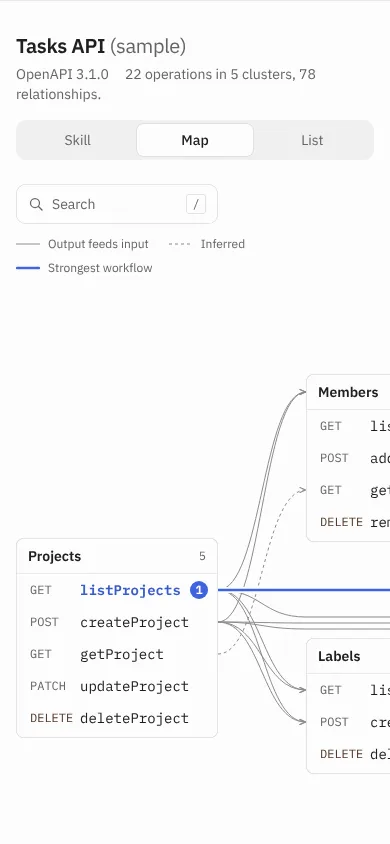
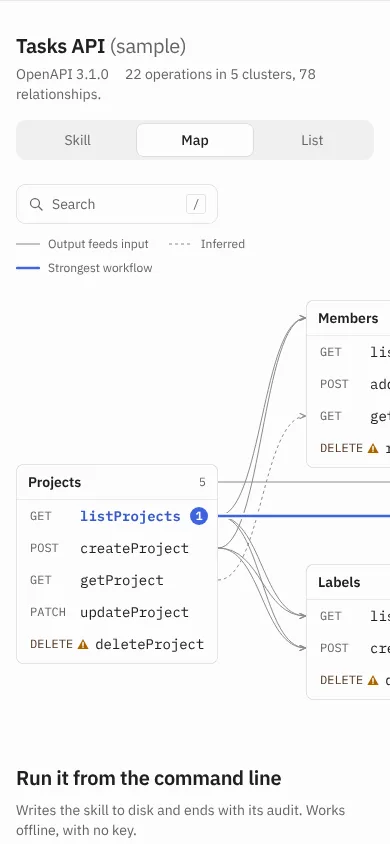
Redesign R4 verify 1: decisions D47, D50 revised, D53 and D54; screenshots
D34, D41, D45 and D48 note the warning mark and gray-5 fade.

Claude-Session: https://claude.ai/code/session_018f8FAnzov9ZBQEqsiVnGBS

diff --git a/docs/DECISIONS.md b/docs/DECISIONS.md
@@ -58,22 +58,24 @@ Record every non-trivial decision here: date, decision, alternatives considered,
 | 2026-10-24 | D31 The Dark theme toggle, its `spec2skill:theme` storage, the `tool-atlas:theme` migration and `[data-theme]` pinning are removed; the theme follows `prefers-color-scheme` through `color-scheme: light dark` and `light-dark()`. `src/design/theme.ts` and its test are deleted (nothing left needs JS); `tokens.test.ts` and the phase 5, 8, 13 and redesign-r1 flows check that the theme follows the system, live and on load, and that a stored choice is ignored. Stale keys in a returning visitor's storage are left alone (never read). | Keep `followSystem` for a JS listener; clear the old keys on load. | DESIGN.md section 2 (Sean, 2026-10-24); CSS alone follows the system live, and unread keys cost nothing. |
 | 2026-10-24 | D32 Type: IBM Plex Sans and IBM Plex Mono 400/500/600, Latin subset, self-hosted from `@fontsource/ibm-plex-sans` and `@fontsource/ibm-plex-mono` 5.3.0 with hand-written `@font-face` rules (woff2 only); Bricolage removed. Existing views moved to the nearest of 12/14/20 (13 px inputs went to 14, "controls are 14"); `font-feature-settings: "tnum"` on the root; weights above 600 become 600. | Fontsource's CSS imports (they also list woff fallbacks); the variable Plex fonts. | DESIGN.md section 2; six static faces (about 116 KB raw, 14-24 KB each) fit the budget, see D36. |
 | 2026-10-24 | D33 Lines are drawn as 0.5 px box-shadows (`0 0 0 var(--line)` rings, `inset 0 ±var(--line) 0` one-side rules), never CSS borders: Chrome computes a 0.5 px border as 1 px. Old dashed and double borders (disabled buttons, stale skill, invalid field, error panel) became 0.5 px rings plus the words or glyphs they already had; the selected file and open list row lost their 3-4 px ink stripe (rule 10) and keep a gray-3 fill and weight 600. Map strokes are SVG and keep their encoding (0.5 px non-scaling for cards, nodes and the grid). Focus is a 2 px gray-12 outline without the marker halo. | 0.5 px CSS borders (render 1 px at DPR 1); `outline` rings. | DESIGN.md rule 6 measurable in the browser check (`scripts/browser/redesign-checks.mjs`). |
-| 2026-10-24 | D34 Colour roles for R1 (map and views keep their layout until R4/R5): ink to gray-12, graphite to gray-11, rule to gray-6, frames to gray-7, fields to gray-8, paper to gray-1, vellum to gray-2, meridian fills to indigo-9 (Download .zip) and meridian text to indigo-11 (links, audit pass, current loading step). Method hues collapse to gray-11 text; destructive method text and the `!` glyph use a `--destructive` role: amber-11 in dark but **amber-12 in light**, because amber-11 on gray-1 is 4.49:1, just under AA for text (contrast.test.ts records it). The destructive hatch bar is a graphic (3:1), so it stays amber-11 in both themes and keeps the amber cue in light. All map edges are gray-9 at full opacity (3.2:1 on gray-1) and keep their line style, marker and label; edge labels and path parameters are gray-11 (indigo stays the one accent); cluster washes are gone. | amber-11 everywhere as drawn in the target (fails AA by 0.006); indigo edges as a literal meridian mapping. | WCAG AA for text is binding; one accent (DESIGN.md section 2). |
+| 2026-10-24 | D34 Colour roles for R1 (map and views keep their layout until R4/R5): ink to gray-12, graphite to gray-11, rule to gray-6, frames to gray-7, fields to gray-8, paper to gray-1, vellum to gray-2, meridian fills to indigo-9 (Download .zip) and meridian text to indigo-11 (links, audit pass, current loading step). Method hues collapse to gray-11 text; destructive method text and the `!` glyph use a `--destructive` role: amber-11 in dark but **amber-12 in light**, because amber-11 on gray-1 is 4.49:1, just under AA for text (contrast.test.ts records it). The destructive hatch bar is a graphic (3:1), so it stays amber-11 in both themes and keeps the amber cue in light. (R4 verify round 1: the route map has no hatch, so the amber cue in light is now D53's amber-11 warning mark on every destructive row.) All map edges are gray-9 at full opacity (3.2:1 on gray-1) and keep their line style, marker and label; edge labels and path parameters are gray-11 (indigo stays the one accent); cluster washes are gone. | amber-11 everywhere as drawn in the target (fails AA by 0.006); indigo edges as a literal meridian mapping. | WCAG AA for text is binding; one accent (DESIGN.md section 2). |
 | 2026-10-24 | D35 The DESIGN.md section 8 checks 1-4 and 7 live in `scripts/browser/redesign-checks.mjs` (`designChecks(page, { theme, checks, sizes })`, colours read from tokens.css), unit-tested in `redesign-checks.test.mjs`; `scripts/browser/flows/redesign-r1.mjs` runs them on the first view (1440 and 390, light and dark), the list view, a keyboard-focused map node and the detail panel (1440, light and dark), and reduced motion. `src/design/copy.test.ts` scans the app source and index.html for the middle dot; `src/skillgen` is exempt because its dots are in the generated skill's Markdown (product output, unchanged in R1). `docs/redesign/target/` is excluded from oxlint (reference generator, not product code). | A Python script; scanning generated files too. | One reusable helper for R2-R7; generated skill content changes belong to a skill-generator change with its snapshots and gallery. |
 | 2026-10-24 | D36 Size budget unchanged: with six Plex faces the initial total is 244.6 / 260 KB gzip (fonts counted raw, each 14-24 KB under the 45 KB per-font cap); initial JS 124.7 / 170 KB. | Raise `initialTotalGzipKB`; subset glyphs further. | It passes; about 15 KB of headroom remains for R2-R7, which `check-size` will flag if used up. |
 | 2026-10-24 | D37 Redesign R2: no source-kind selector and no More options. The web app always loads in Auto mode: a URL is fetched as a spec and, when it is not one, tried as an MCP server. `notSpec` (shared with the CLI's Auto mode) now also covers an HTML page and a GET answered 400 or 404 (MCP endpoints that only take POST often answer GET that way), besides not-a-spec, unsupported and 405/406; if the MCP try fails too, the spec's own error is shown. The error panel offers exactly its two recovery actions, "Paste spec text instead" and "Try a sample"; "Load it as an MCP server" is gone. Round 1 of review widened it: a GET answered 5xx is also tried as MCP once; when the MCP try fails for a reason only MCP has (needs-auth, legacy-transport) that error is shown instead of the spec's, but only when the GET already looked like an MCP endpoint (a JSON-RPC answer or a proxied 405/406), because the MCP client reports any POST 404/405 as the older transport and any 401/403 as credentials (a mistyped URL, a docs page or a 5xx keeps the spec error); the CLI's Auto mode applies the same rule to its MCP client's errors (`fallbackError` in `src/source/fetchSource.ts`, used by both); a body served as text/html that parses as a spec or a tools/list is accepted (a body that starts like HTML is still a page). Paths `/mcp` and `/sse` still go straight to MCP. `loadSource`'s `mode` stays for the CLI (`--source`). | Keep the selector behind a disclosure; keep "Load it as an MCP server" in the error panel. | DESIGN.md 4.2 and rule 9 (minimise decisions): the retry the selector offered now happens by itself, at the cost of one extra proxy call for a docs page, a 404 or a 5xx. |
 | 2026-10-24 | D38 Spacing tokens are named by value (`--space-16` is 16 px) and extended for the grid: 2, 4, 8, 12, 14, 16, 20, 24, 32, 40, 48, 64, 88, 96, 104 (the old `--space-1..6` = 4/8/16/24/40/64 were renamed in place in app.css); `scripts/check-spacing.mjs` still rejects raw px/rem in spacing properties. Radii gain `--radius-row` 6, `--radius-box` 10 and `--radius-frame` 16 (sm 4, md 8 stay). The source field's text padding is derived from its height (`calc((var(--field-h) - var(--leading-14)) / 2)`) rather than a 10 px token. | Keep ordinal names and slot the new values between them; allow-list raw values. | Ordinal names cannot take 12 between 8 and 16; value names read at a glance and match gen.mjs. |
 | 2026-10-24 | D39 Grid: `.wrap` is max 1136 px with 32 px padding (a 1072 px column); every grid uses `minmax(0, 1fr)` columns and a gap of `min(88px, 7.75vw)`, which is exactly 492/492 and 4 x 202 at 1136 px and wider and fluid below; under 640 px one column with a 16 px gutter. The result frame hangs 32 px outside the column; below 1200 px `.wrap` becomes max 1168 with 48 px side padding (the column stays 1072 wide until the window is narrower than 1168, so nothing jumps at 1200), and the frame always keeps at least 16 px from the window while its contents stay on the column's left edge. The hero stacks to one column below 960 px so the field keeps its placeholder on one line, and the Samples control wraps under its label when the two no longer fit one line (columns `minmax(max-content, 1fr)`). On phones the result is not a card but a 0.5 px rule above it spanning the full window (DESIGN.md 6). The skill pane and the map now size themselves from their top inside the frame (`src/shell/frame.ts`), so they fill the window once the frame is scrolled to; the hero is the first view. | Fixed 492/202 tracks with a separate fluid media query; keep sizing from the page top. | One rule for every width; the map and pane would otherwise shrink to their minimum under the hero. |
 | 2026-10-24 | D40 Page shell details: the samples are native radio buttons in a `role="radiogroup"` labelled "Samples" (arrow keys move and select, one Tab stop, nothing checked while a user source is shown; clicking the selected one names it in the URL as the chips did); the chip row, its "More samples" hint and `src/shell/reveal.ts` are removed (the three samples fit one line at 390, checked in phase-13 and redesign-r2). On phones the header links sit behind a Menu button (as V2Phone draws). Header and footer in-page links (#how, #cli) scroll and move focus without changing the URL, whose hash is `#op=`. Generate (indigo-9, the primary button of the hero) loads the field's source, or with an empty field writes the current skill again (the old header Generate skill; ignored while a load runs). The phone menu closes on Escape (focus back on Menu) and on a tap outside the header. The redesign flows write their committed screenshots only with `--capture <flow>` (scripts/check-browser.mjs); otherwise into the run's phase folder, so a later run never overwrites an earlier phase's images. The footer's Keyboard shortcuts opens the existing dialog (state moved from the workspace to App). The workspace's API title is now an h2 under the hero h1. | ARIA tabs with roving tabindex; leave the header links visible on phones; anchors that set the hash. | Radios give the "none selected" state and arrow keys natively; the hash belongs to URL state (F13). |
-| 2026-10-24 | D41 The route map's method column (DESIGN.md 5) shows, for MCP tools, `read` (readOnlyHint; without hints, a list or read tool by its name) or `write` (everything else). HTTP operations keep their method in capitals. A destructiveHint keeps `destructive: true`, so the row's method text is `amber-11` like DELETE; because amber alone would be colour only, R4 adds a non-colour cue on destructive tool rows: a small marker glyph, and "destructive" in the row's accessible name. The layout data carries it per row (`method`, `destructive`; `methodOf` in `src/layout/route.ts`), so the renderer only prints it. (Revised in R3 verify round 1: the first version wrote `delete` for destructive tools, which misstates write_file, edit_file and move_file.) | "delete" for destructive tools; "tool" on every MCP row; "destr.". | "tool" repeats on every row and says nothing (rule 2); "delete" is wrong for tools that overwrite; an abbreviation is a coined word (rule 3). read/write says what the call does and fits the 44 px column. |
+| 2026-10-24 | D41 The route map's method column (DESIGN.md 5) shows, for MCP tools, `read` (readOnlyHint; without hints, a list or read tool by its name) or `write` (everything else). HTTP operations keep their method in capitals. A destructiveHint keeps `destructive: true`, so the row's method text is `amber-11` like DELETE; because amber alone would be colour only, R4 adds a non-colour cue on destructive rows: a 12 px amber-11 warning mark after the method word (D53, replacing the first version's `!` glyph glued to `write`), and "destructive" in the row's accessible name. The layout data carries it per row (`method`, `destructive`; `methodOf` in `src/layout/route.ts`), so the renderer only prints it. (Revised in R3 verify round 1: the first version wrote `delete` for destructive tools, which misstates write_file, edit_file and move_file.) | "delete" for destructive tools; "tool" on every MCP row; "destr.". | "tool" repeats on every row and says nothing (rule 2); "delete" is wrong for tools that overwrite; an abbreviation is a coined word (rule 3). read/write says what the call does and fits the 44 px column. |
 | 2026-10-24 | D42 Route map columns: cycles in the cluster feed graph are broken with the greedy feedback-arc order of Eades, Lin and Smyth on distinct cluster pairs (sinks to the end, sources to the front, else the largest out minus in; ties in model order), after dropping any pair that runs back against the strongest workflow, whose clusters then take their slots in workflow order; columns are longest-path depths over the edges that run forward in that order (`src/layout/route-columns.ts`). | Depth-first search in model order dropping back edges; drop the weaker direction of each two-way pair by edge count. | DFS from the first cluster in model order (Comments) made Tasks feed Members back and broke the target; weighting by edge count put Members after Tasks. The greedy order gives Projects, Members and Labels, Tasks, Comments for the Tasks API, and the workflow always runs left to right. |
 | 2026-10-24 | D43 Resources with no feeds to or from any other resource (Petstore's User) are not on the dependency graph: they go to the currently shortest of the first four columns (or of all columns when there are more), biggest first, instead of all piling up in column 0. | Strict longest-path depth (every unlinked resource in column 0). | A spec without cross-resource feeds would otherwise be one tall column with three empty ones beside it; the grid's columns are there to be used. |
 | 2026-10-24 | D44 Route map layout details: the main line sits on each main card's line row (the stop where the line leaves the first card or enters a later one), so tops are equal when those rows are (Tasks API) and the line stays straight when they are not (Filesystem MCP). Other cards of a column go biggest first (ties in model order), alternating: above first in a column the line only crosses, below first in a column with a main card; a column off the line puts its biggest card's first row on the line's y and stacks the rest below and above; without a workflow, top down. Clearance 32 px between cards and from the main-line row band (row centre +-16), so Members/Labels sit 48 px from the line. A collapsed card shows 8 rows (workflow stops always among them, CRUD order kept) and an "N more" row (also when N is 1); links to hidden operations end on that row; `expanded` reopens cards in place and the "N more" row stays as the toggle. Links take the direct curve between their ends when it clears every card (8 px) in the columns between; otherwise they curve only inside the 88 px gaps (horizontal tangents) and cross each column through the free corridor nearest the straight line, 8 px clear of its cards, each on its own track: links sharing a corridor sit 6 px apart, ordered by source then target y (an open corridor above or below every card takes 8 tracks, then links overflow into the other open one; when every corridor is full the nearest open one takes the rest, still 6 px apart), so no two share a straight run. In every column the workflow line passes through, its band (row +-16 plus the 3 px halo) blocks links like a card: a link passing there stays on one side, the side of its far end when it leaves a main card (it crosses the line in the gap it leaves by), else the side of its start, and never takes the direct curve there. A bundle holding the workflow's own step is not drawn at rest (it would run on the line; its edges show on hover). The workflow ends before a step into a resource that is not further right (no two main cards share a column), and a chain of one stop is no workflow; same-card links loop out of the left edge, same-column links out of the right edge, backward links run left edge to right edge; so no link crosses a card (tested on every rest and hover link). `bounds` covers what is drawn at rest outside the cards (the workflow loop reaches 24 px left of column 0); `hoverBounds` adds what hover links can reach: 36 px past the first and last column (loops) and above and below the cards as deep as the operation with the most links could fill an open corridor (`openReach`, at least 50 px). | Card tops equal for every main card; cap at 9 rows to avoid "1 more"; one long Bézier per link; the nearest free y for every link (links stacked on one y read as one line). | The line is what must be straight (target); the cap is the spec's 8; a single Bézier across a column crosses its cards. |
-| 2026-10-24 | D45 Redesign R4 hover and focus: a hot row (hovered, keyboard-focused or pinned) draws its **feed** links only, each as its own 1.25 px gray-12 curve with an arrowhead (`hoverLinks` over the feeds edges); a bundle it stands behind fades with the other rest links to gray-6 without arrowheads, unrelated rows fade (D47), and the workflow line, halo and stop discs rest (drawn gray-6 like any link) until nothing is hot, as `V2Hover` draws it. Sub-path and shared-schema relations are not drawn on hover: the operation card lists them ("Shares schema", "Sub-paths", "Sub-path of"), the List view keeps every relationship as text, and E still cycles every relationship of the focused row (announced, the far row outlined dashed 2 px gray-12). A pointer leaving a row has 150 ms to reach its card before the preview goes. | Draw sub-path and shared-schema links on hover too (DESIGN.md 5's table lists them). | V2Hover draws feeds only; a fourth line style would need a legend entry the tools row does not have, and the card already says the same thing in words. |
+| 2026-10-24 | D45 Redesign R4 hover and focus: a hot row (hovered, keyboard-focused or pinned) draws its **feed** links only, each as its own 1.25 px gray-12 curve with an arrowhead (`hoverLinks` over the feeds edges); a bundle it stands behind fades with the other rest links to gray-5 without arrowheads, unrelated rows fade (D47), and the workflow line, halo and stop discs rest (drawn gray-5 like any faded link) until nothing is hot, as `V2Hover` draws it. Sub-path and shared-schema relations are not drawn on hover: the operation card lists them ("Shares schema", "Sub-paths", "Sub-path of"), the List view keeps every relationship as text, and E still cycles every relationship of the focused row (announced, the far row outlined dashed 2 px gray-12). A pointer leaving a row has 150 ms to reach its card before the preview goes. | Draw sub-path and shared-schema links on hover too (DESIGN.md 5's table lists them). | V2Hover draws feeds only; a fourth line style would need a legend entry the tools row does not have, and the card already says the same thing in words. |
 | 2026-10-24 | D46 The operation card replaces the detail panel. Hover or focus shows a preview (300 wide, radius 10, gray-1, gray-7 ring, `--shadow-float`, padding 16; 16 px right of the row's card, its top 40 px above the row's centre; flipped 16 px left of the card when it would pass the frame's or window's right edge) that is `aria-hidden` (the row's name carries the essentials; its In skill button is pointer-only). Click, Enter or Space pins it: a non-modal dialog named by its title, after the map in DOM and Tab order ("Operation card open after the map; Tab to read it."), with Close, the description, output fields, Auth, related operations as buttons that move the pin and focus, and the example request with Copy example (all the panel had); Escape anywhere in it or on the map closes it and returns focus to the row; `#op=` names the pinned row and back/forward move the pin. The definition list says "Sub-paths" and "Sub-path of" rather than one "Sub-path" so direction is not lost. On phones (< 640 px) there is no preview and the pinned card is a bottom sheet (max 50dvh) with the page padded and `scroll-padding-bottom` set so a focused row stays clear of it (2.4.11). The List view docks the same card (sticky) under its tables. `DetailPanel.test.ts` moved to `src/map/OpCard.test.ts` with every check kept (S3 hostile strings, no `innerHTML`, related buttons, curl and tools/call examples). | Keep the panel beside the map; a modal dialog; a preview readable by screen readers. | DESIGN.md 5 (one surface for both states). A preview that speaks would repeat the row's name on every arrow key; a modal would trap focus away from the map the card describes. |
-| 2026-10-24 | D47 Faded rows (unrelated to the hot row, or not matching a search) take `gray-11` text, not opacity 0.38: at 0.38 the live buttons fall to about 2.3:1 and axe fails the hover and pinned states, which the R4 acceptance requires to be clean. gray-11 is the lightest Radix ink that keeps 4.5:1 on gray-1 in both themes; the DELETE amber and the workflow indigo fade to it too. Because gray-12 against gray-11 is under 3:1, search matches also turn their id 600 (never lightness alone; phase-12 checks it), and hover relies on the drawn links. Faded links still go to gray-6 (graphics; the hot links carry the meaning). | Opacity 0.38 as DESIGN.md 5 says; a custom gray between gray-10 and gray-11 that would reach 3:1 against ink and 4.5:1 against paper. | WCAG AA is binding (CLAUDE.md); a non-Radix gray would fail the colour check. The fade is quieter than the board but still reads, see `docs/screenshots/redesign-r4/hover-gettask-1440-light.webp`. |
-| 2026-10-24 | D48 Route map rows are real buttons, one Tab stop for the map (roving tabindex; arrows move spatially to the nearest row that way, so ArrowRight from getTask is updateComment and ArrowLeft from listTasks is removeMember; PageUp/PageDown go card to card in column order, Home/End within a card; "N more" rows are stops too). A row's accessible name starts with its visible text, method then id, then the path, title, "destructive" or "changes data", "deprecated", "workflow step N", the cluster and the relationship count ("GET getTask, /tasks/{taskId}, Get a task, workflow step 3, cluster Tasks, 13 relationships"; WCAG 2.5.3, axe label-content-name-mismatch); the stop disc is generated from `data-route` by CSS `::after` so its number is not part of the visible text, and a destructive tool's `!` glyph (D41's cue, with `title="Destructive"`) is `aria-hidden` because the name says it. The map group keeps `data-testid="atlas"` and its summary name; the visually hidden help names the keys. Zoom, fit and pan shortcuts are gone from the `?` dialog. | Names starting with the path (as the atlas had); the disc as a text span. | Speech-input users say what they see; the path is still in the name. |
+| 2026-10-24 | D47 While a row is hot or a search is on, rows are lit (the hot row, rows its links reach, search matches: id gray-12 weight 600, method gray-12 weight 500) or faded (the rest: id and method gray-11 weight 400); a card with no lit row fades its name to gray-11 weight 500 (lit cards keep gray-12 600), and faded links go to gray-5 without arrowheads (gray-5 in both themes: 1.27:1 on gray-1 in light, 1.45:1 in dark, quiet but visible; they are decoration, the hot links carry the meaning). Not opacity 0.38: at 0.38 the live buttons fall to about 2.3:1 and axe fails the hover and pinned states, which the R4 acceptance requires to be clean. gray-11 is the lightest Radix ink that keeps 4.5:1 on gray-1 in both themes; the DELETE amber and the workflow indigo fade to it too. gray-12 against gray-11 is under 3:1 (2.75:1 light, 1.8:1 dark), so the weight step (600/500 against 400) carries the difference, never lightness alone; IBM Plex Mono has equal advances at every weight, so nothing shifts. (Revised in R4 verify round 1: the first version faded only the id, leaving the method column unchanged and related and unrelated rows hard to tell apart; links faded to gray-6.) phase-12 and redesign-r4 check the weights. | Opacity 0.38 as DESIGN.md 5 says; a custom gray between gray-10 and gray-11 that would reach 3:1 against ink and 4.5:1 against paper; colour only. | WCAG AA is binding (CLAUDE.md); a non-Radix gray would fail the colour check. See `docs/screenshots/redesign-r4/hover-gettask-1440-light.webp`. |
+| 2026-10-24 | D48 Route map rows are real buttons, one Tab stop for the map (roving tabindex; arrows move spatially to the nearest row that way, so ArrowRight from getTask is updateComment and ArrowLeft from listTasks is removeMember; PageUp/PageDown go card to card in column order, Home/End within a card; "N more" rows are stops too). A row's accessible name starts with its visible text, method then id, then the path, title, "destructive" or "changes data", "deprecated", "workflow step N", the cluster and the relationship count ("GET getTask, /tasks/{taskId}, Get a task, workflow step 3, cluster Tasks, 13 relationships"; WCAG 2.5.3, axe label-content-name-mismatch); the stop disc is generated from `data-route` by CSS `::after` so its number is not part of the visible text, and a destructive row's warning mark (D41, D53) is `aria-hidden` because the name says it. The map group keeps `data-testid="atlas"` and its summary name; the visually hidden help names the keys. Zoom, fit and pan shortcuts are gone from the `?` dialog. | Names starting with the path (as the atlas had); the disc as a text span. | Speech-input users say what they see; the path is still in the name. |
 | 2026-10-24 | D49 Removed in R4, with what replaced each: the SVG atlas (`Map.tsx`, `Node.tsx`, `Edge.tsx`) by `RouteMap.tsx`; `src/layout/layout.ts` and `collapse.ts` (and their snapshots) by `src/layout/route.ts` (R3), its 8-row cap with "N more" replacing summary cards and aggregated cluster edges on large specs (the synthetic 1000-operation spec pastes interactive in under a second; hover preview under 150 ms); `camera.ts`, the zoom buttons, Ctrl + wheel, drag and two-pointer pinch (F9) by native sideways scrolling and browser zoom; `src/shell/frame.ts` (panes sized to the window, D39) because the map now takes its natural height and the skill browser sits under it in the frame (DESIGN.md 4.3); the Filters disclosure by search alone (`src/state/filter.ts` keeps `searchIndex`, `matches` and `edgeShown`); the Legend disclosure by the always-shown legend in the tools row; `DetailPanel` by the operation card (D46); hub schema badges on cards (the List view's summary still names them, e.g. "Error on 20 operations"). `src/layout/geometry.ts` keeps only `Point`, `Rect` and `round`. | Keep zoom for very large specs; keep Filters behind search. | DESIGN.md 4.3 and 5 remove them; the route layout is readable at 1:1 and scrolls where it is wide. |
-| 2026-10-24 | D50 The map scrolls sideways when the layout says so (more than four columns) or is wider than the frame: a native scroller with `role="region"`, the name "Map, scrolls sideways" and `tabIndex=0` (axe scrollable-region-focusable; arrows on it scroll, arrows on a row move between rows). Its content box is the layout's `hoverBounds`, so no hover link or loop is clipped, and it is pulled left by as much so column 0 stays on the grid; a focused row is scrolled fully into it. At rest the map box is the cards plus what the rest links need above and below. The grid check (DESIGN.md 8.6) now also measures the map: column 0 on the column's left edge, column 2 at 580, and the four columns at 0/290/580/870 (`distinct` positions in `GRID_PARTS`). | Clip hover links to the cards' box; a custom scroll bar. | Native scrolling is keyboard, touch and assistive-tech ready; hover links leaving the box would be cut. |
+| 2026-10-24 | D50 The map scrolls sideways when the layout says so (more than four columns) or is wider than the frame: a native scroller with `role="region"`, the name "Map, scrolls sideways" and `tabIndex=0` (axe scrollable-region-focusable; arrows on it scroll, arrows on a row move between rows). Its content box is `hoverExtent` (the cards, rest links and every hover link the graph can actually draw, sampled along their paths; not the looser `hoverBounds`), so no hover link or loop is clipped and no blank band is left above the cards, and it is pulled left by as much so column 0 stays on the grid; hover loops bulge at most 30 px (`HOVER_REACH`), inside the frame's 32 px padding with their 1.25 px stroke, so the region and everything in it stays inside the frame's ring (revised in R4 verify round 1: 36 px loops crossed the ring by 4 px); a focused row is scrolled fully into it. At rest the map box is the cards plus what the rest links need above and below. The grid check (DESIGN.md 8.6) now also measures the map: column 0 on the column's left edge, column 2 at 580, and the four columns at 0/290/580/870 (`distinct` positions in `GRID_PARTS`). | Clip hover links to the cards' box; a custom scroll bar. | Native scrolling is keyboard, touch and assistive-tech ready; hover links leaving the box would be cut. |
 | 2026-10-24 | D51 R4 tokens and small rules: `--space-6` and `--space-10` (row gaps and padding), `--shadow-float` (`0 8px 24px rgba(0, 0, 0, 0.08)`, the one shadow, only on `.op-card`; tokens.test enforces it), `--motion-map` 250 ms for the fades (camera and fade motion tokens removed; 0 under reduced motion). The map's provenance credit shows only "Names: AI-drafted"; deterministic names carry no credit line (the skill pane's "Prose: deterministic" stays). The strongest workflow is computed once per model in the workspace and passed to the map (`topChains` is slow on large specs). | Keep "Names: deterministic" on every map. | The default needs no label; the AI case is the one to flag. |
 | 2026-10-24 | D52 Flows after R4: `redesign-r4` (phase 21) covers the route map's drawing, tools row, hover, flip, pinned card, keyboard, search, "N more", the scroll region, the synthetic spec, samples online and offline, phones, 200 % and CVD, with DESIGN.md 8 checks 1-4, 6, 7 and axe on rest, hover and pinned in light and dark. `phase-6-map` is retired (its subject, the SVG atlas and camera, is gone); its P3 timing, sample switching, Map / List, offline, 390, 200 % and CVD checks moved to `redesign-r4`. `phase-7-keyboard` and `phase-12-search-list` were rewritten on the route map (detail panel checks to the card, filter checks to drawn-link and text-kind checks); phase 11, 13, 15, 17, 18, 20, redesign-r1, `scripts/browser/audit.mjs` and the media capture scripts were updated (the media themselves are recaptured in R7). | Keep phase-6-map with a few checks. | One flow per subject; nothing it checked was dropped without a replacement. |
+| 2026-10-24 | D53 Every destructive row (HTTP DELETE and destructiveHint tools alike) carries a 12 px warning mark after its method word, 4 px gap: an amber-11 triangle (a graphic, 4.5:1 on gray-1 in light, so over 3:1 in both themes) with a gray-1 stroke inside, `aria-hidden` because the row's name says "destructive". It gives light mode back the amber cue the method text (amber-12, D34) cannot carry, and replaces the `!` glued to `write`. The method cell widens for these rows only (DELETE plus the mark is 60 px against the 44 px column), so a DELETE row's id starts about 16 px further right than its neighbours'. | A hatch bar on the row's left edge (as before R4; V2Home draws none); the mark before the method word; a wider method column on every row. | Not colour alone, and amber where the board puts it; widening every row's method column would cost each card 16 px of id for four rows. |
+| 2026-10-24 | D54 Three or more feed links from one card to another at least one column away (Tasks API: listProjects, getProject and createProject into Tasks) rest as one card bundle: a single straight run from the source card's head to the target card's head, `data-from` and `data-to` naming the cards and `data-edges` all the edges it stands for (`cardBundles` in `src/layout/route.ts`, `CARD_BUNDLE` = 3); hovering any of its rows fades it and draws that row's own links, as the existing one-source bundles do. Links between neighbouring columns stay individual. (R4 verify round 1: the three runs at 6 px apart read as one thick ribbon whose ends could not be told apart.) | Tracks at least 10 px apart with overflow into the other corridor: tried at TRACK 10, createProject's runs overflow above the cards and arch over the workflow line, crossing it twice, which reads worse than the ribbon and is further from V2Home. | One line where the board draws one; each run's ends are still a hover away, and the List view lists every relationship. |
